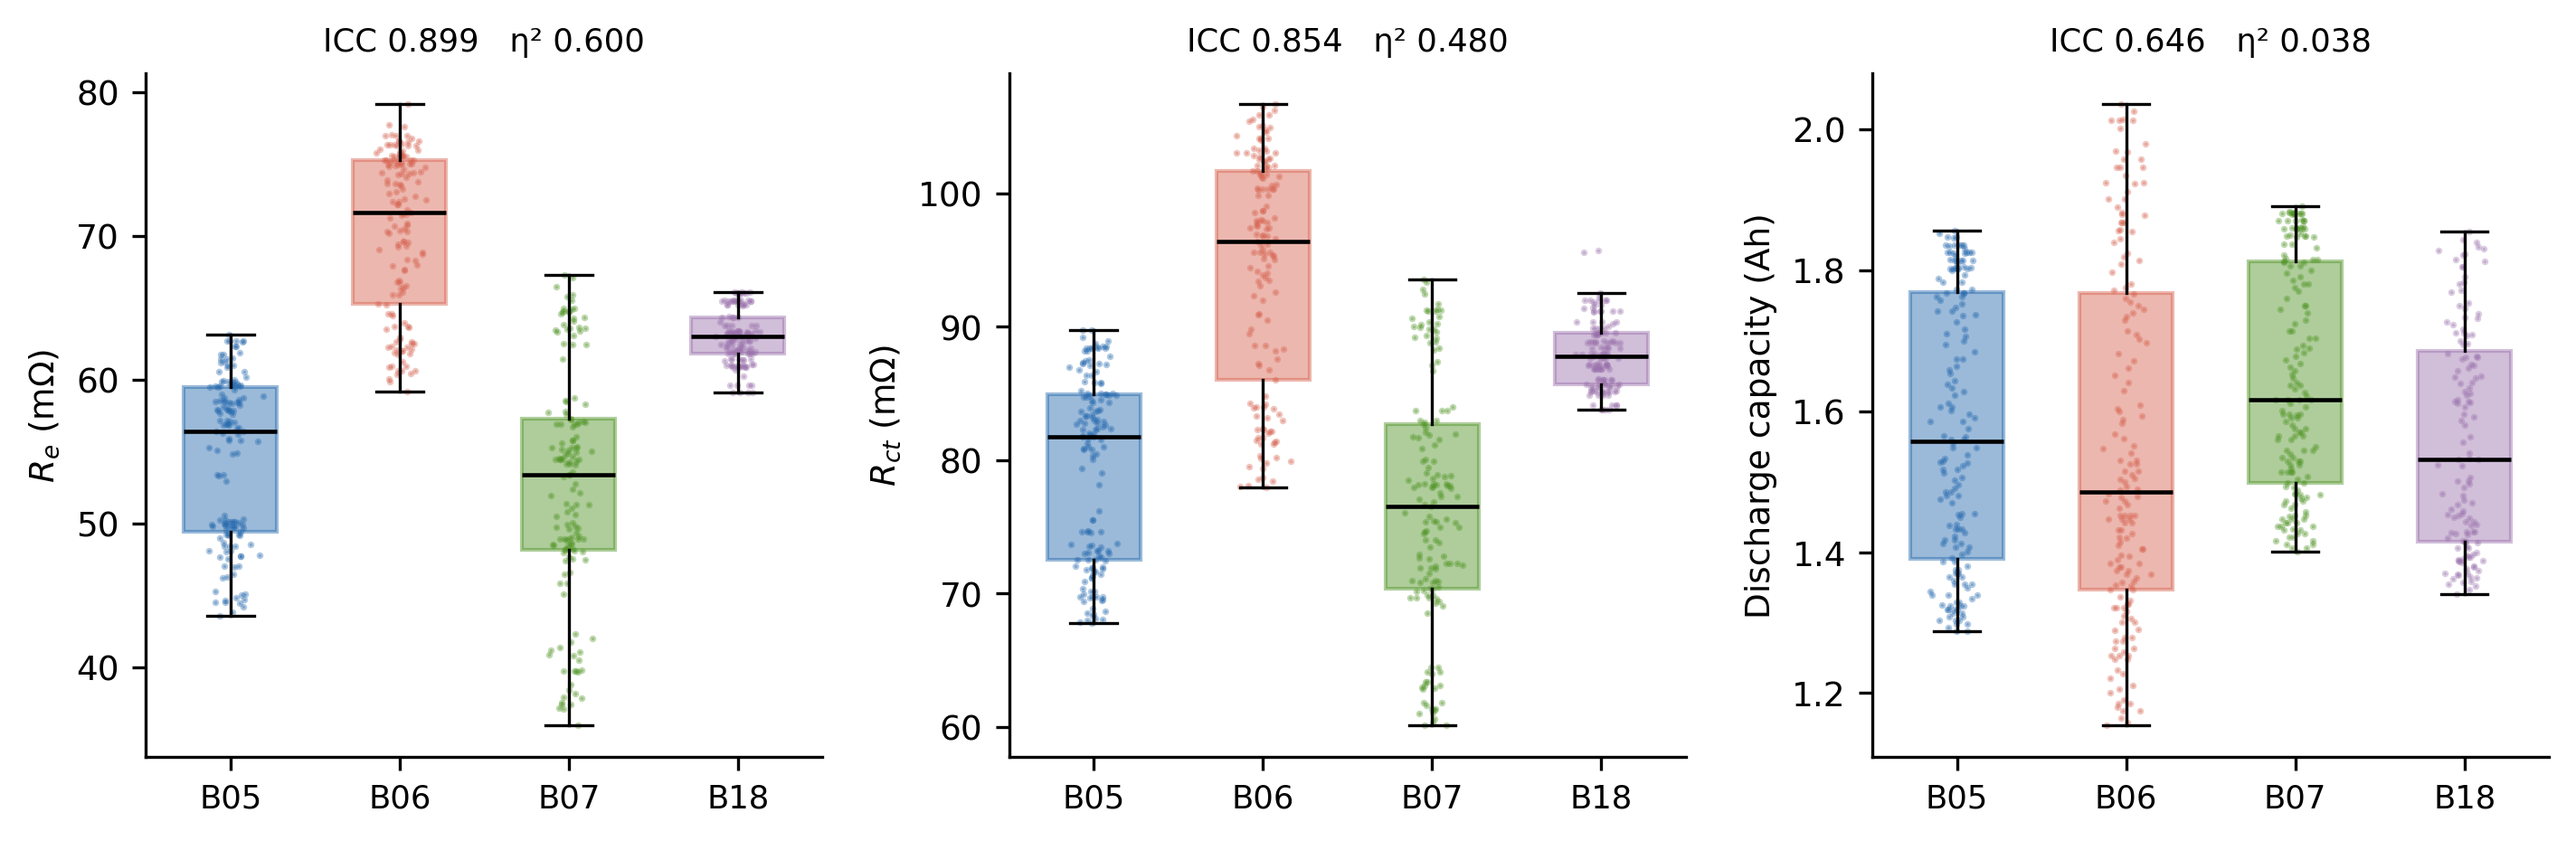
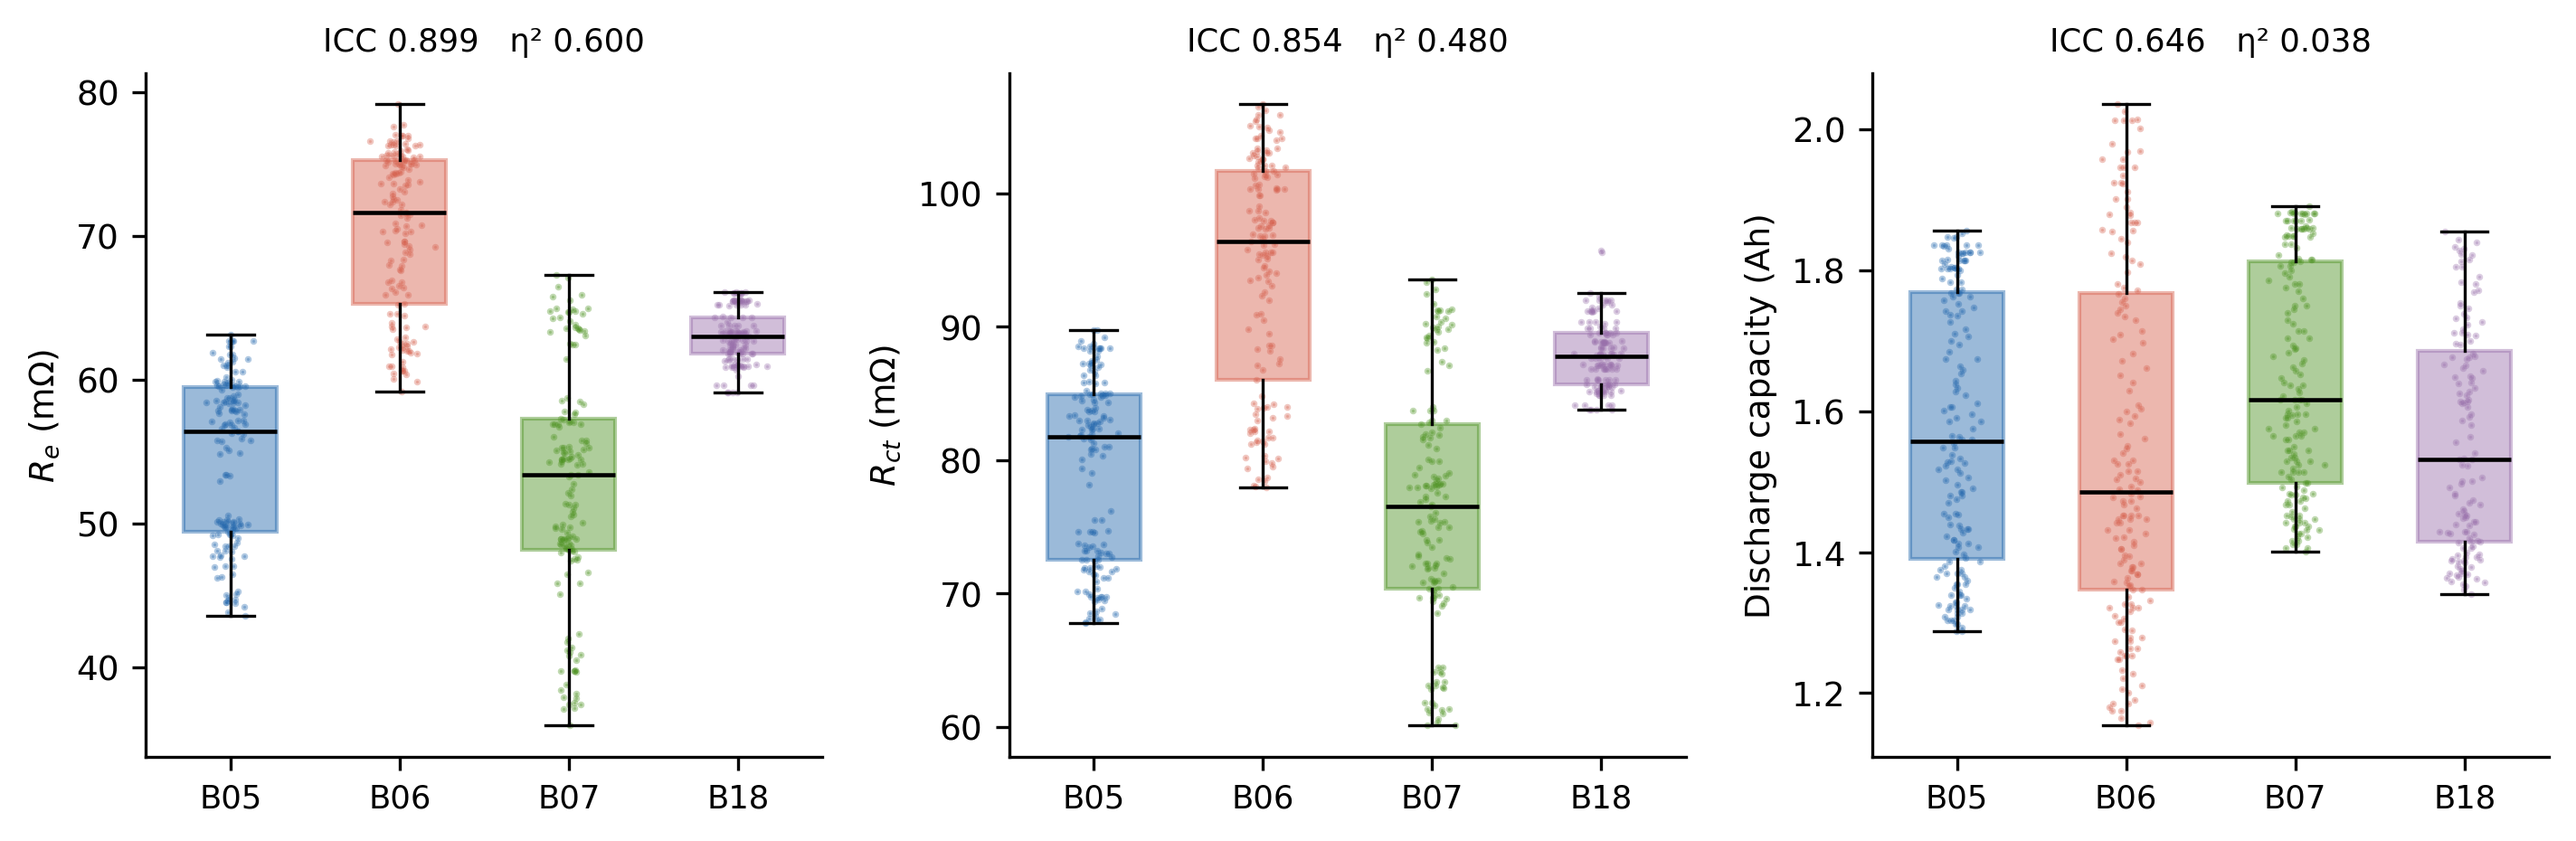
Seed Fig 4 jitter for byte-identical reruns, ignore redundant results_summary.json, set metrics release to 3.0.1

diff --git a/src/figs.py b/src/figs.py
@@ -65,6 +65,7 @@ ax.legend(fontsize=7.5,frameon=False,loc='upper left')
 fig.savefig(f'{F}/fig3_Re_trend.png'); plt.close()
 
 # ---- Fig 4: between-cell distributions ----
+np.random.seed(42)  # jitter must be reproducible
 fig,axes=plt.subplots(1,3,figsize=(9.6,3.2))
 specs=[('Re','$R_e$ (mΩ)',1000,'ICC 0.899   η² 0.600'),
        ('Rct','$R_{ct}$ (mΩ)',1000,'ICC 0.854   η² 0.480'),
